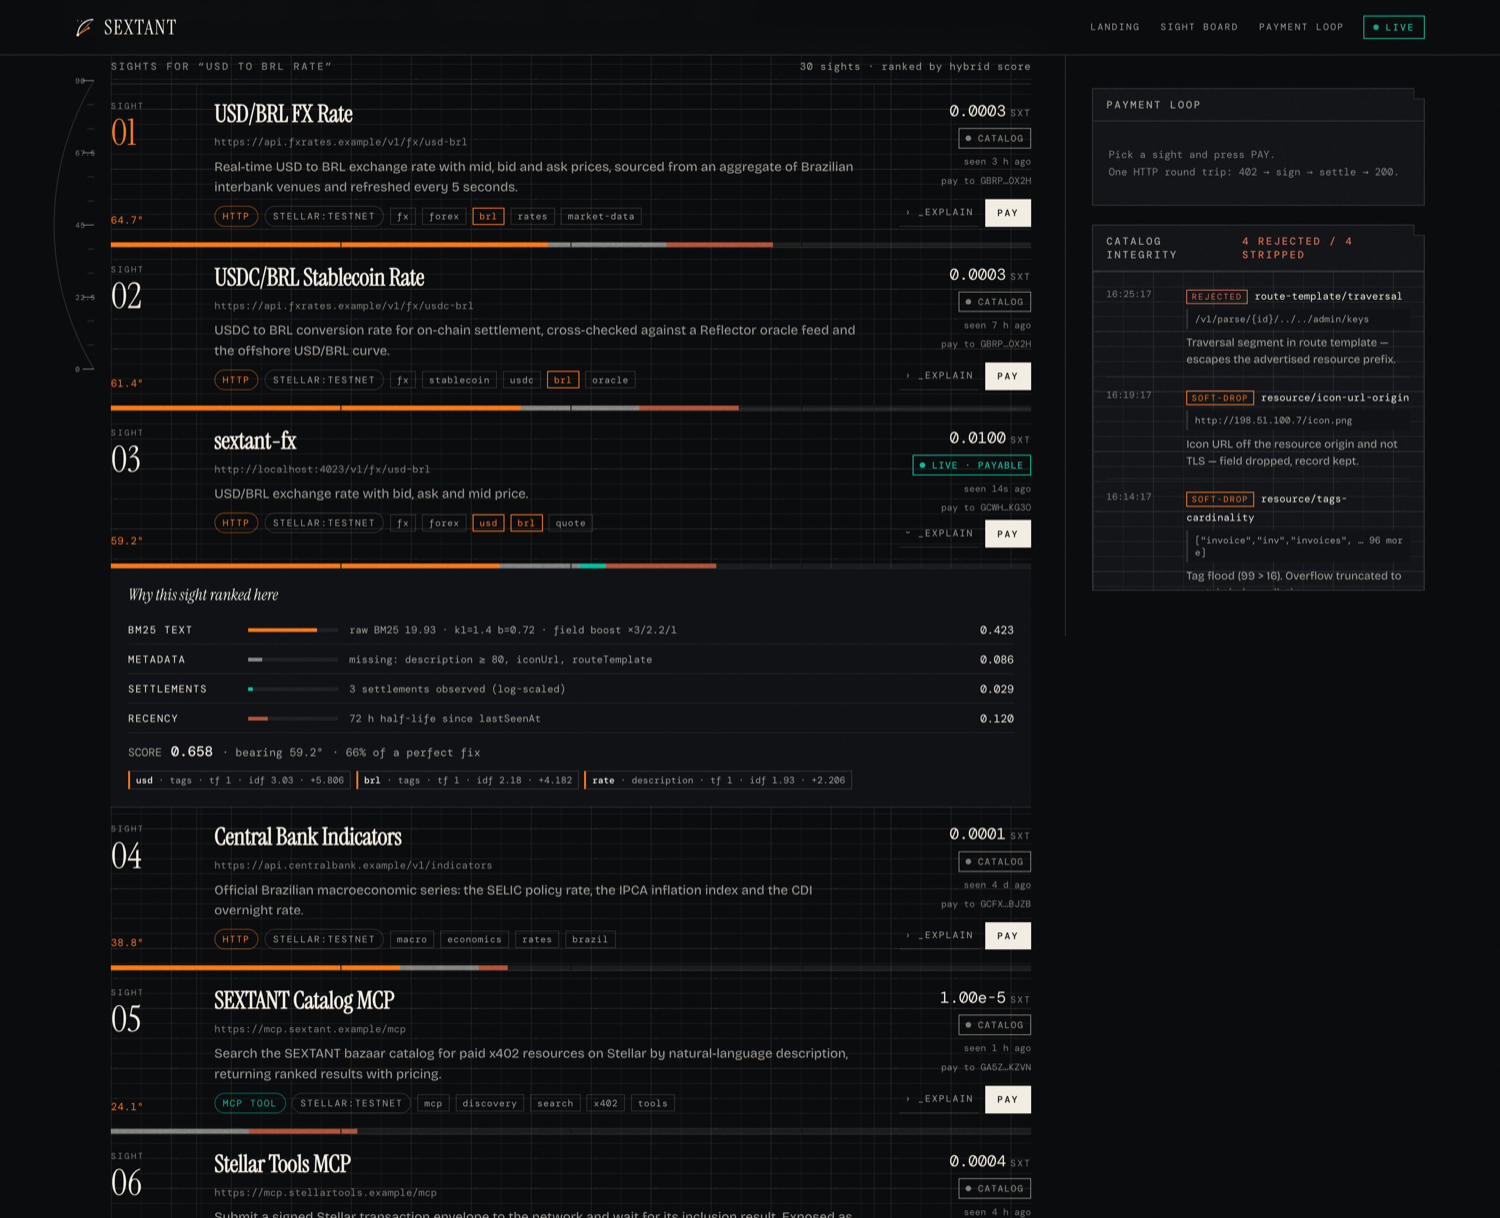
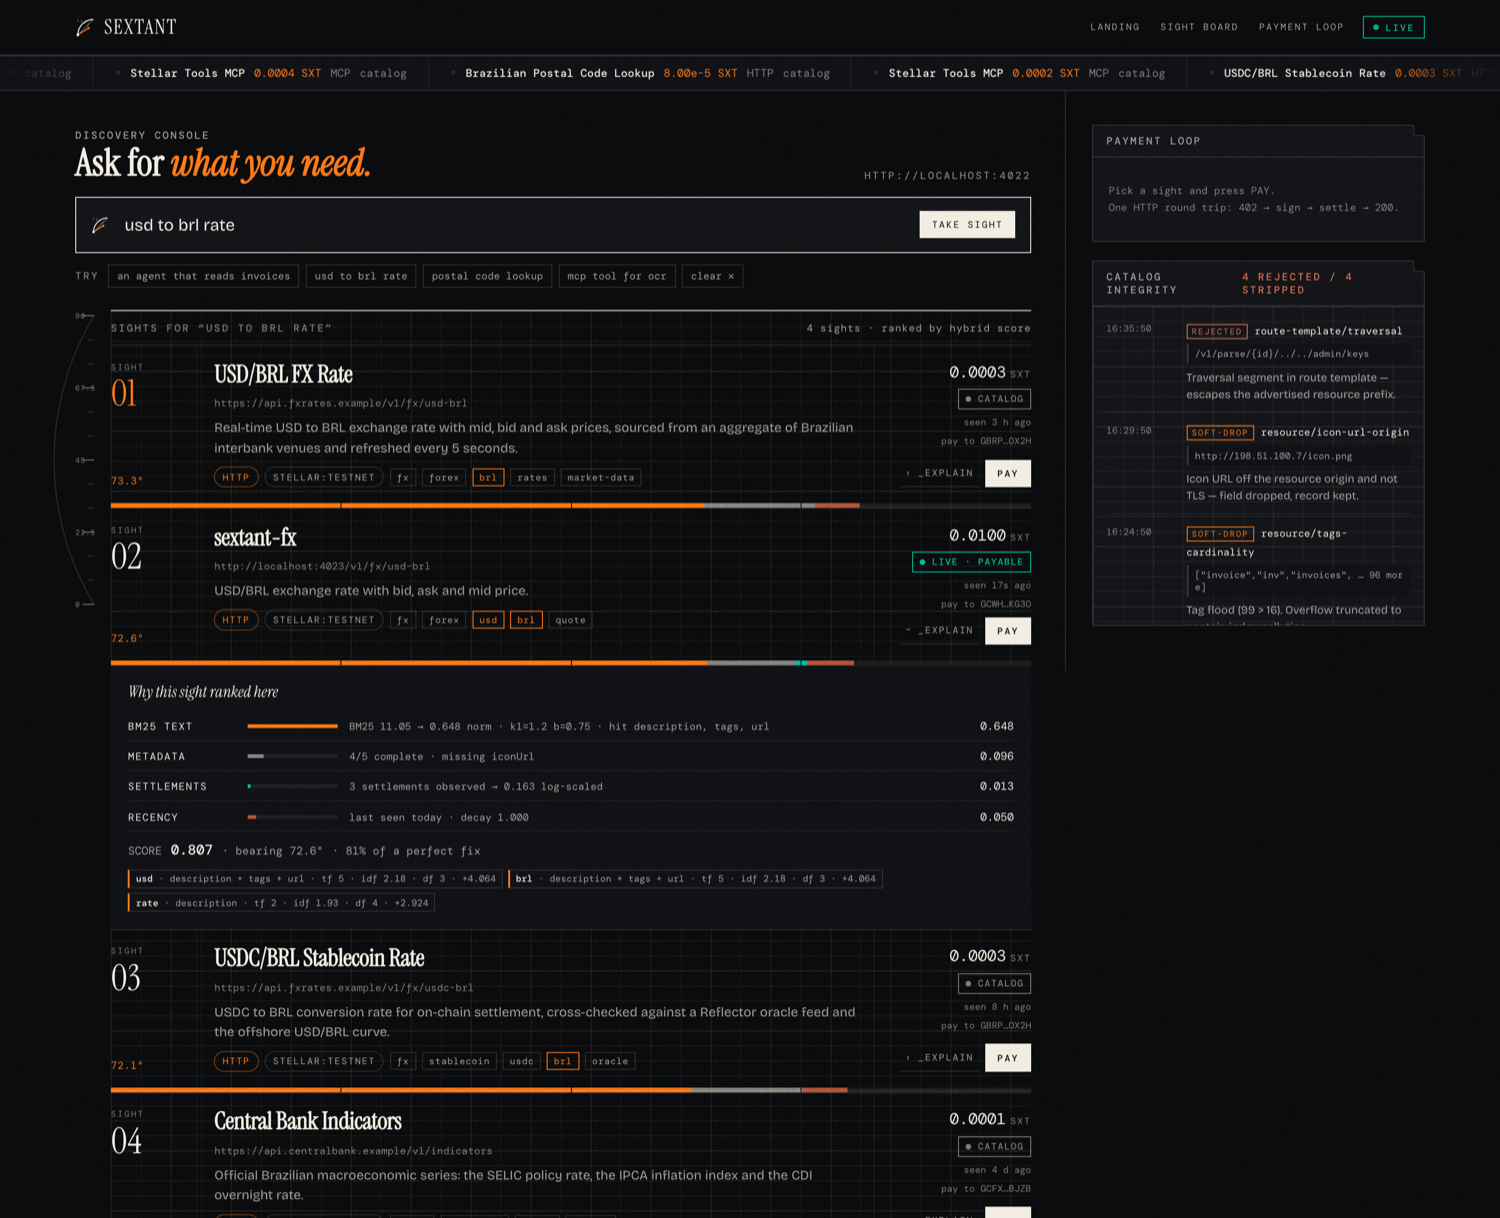
Demo video and explain screenshot

diff --git a/apps/web/src/lib/api.ts b/apps/web/src/lib/api.ts
@@ -2,7 +2,7 @@ import fixtureRaw from '../data/fixture.json'
 import txsRaw from '../data/testnet-txs.json'
 import integrityRaw from '../data/integrity.json'
 import { rank } from './rank'
-import type { Catalog, IntegrityEntry, SextantRecord, TxEntry } from './types'
+import type { Catalog, Explain, ExplainKey, IntegrityEntry, SextantRecord, TxEntry } from './types'
 
 export const INDEX_URL: string =
   (import.meta.env.VITE_INDEX_URL as string | undefined)?.replace(/\/$/, '') ??
@@ -48,10 +48,136 @@ function pickIntegrity(payload: unknown): IntegrityEntry[] {
   return []
 }
 
+/* ------------------------------------------------------------------ _explain */
+
+const num = (v: unknown, fallback = 0): number =>
+  typeof v === 'number' && Number.isFinite(v) ? v : fallback
+
+const round = (n: number, dp: number): number => {
+  const f = 10 ** dp
+  return Math.round(n * f) / f
+}
+
+const obj = (v: unknown): Record<string, unknown> =>
+  v && typeof v === 'object' && !Array.isArray(v) ? (v as Record<string, unknown>) : {}
+
+const PART_KEYS: ExplainKey[] = ['bm25', 'metadata', 'settlements', 'recency']
+
+/**
+ * The index speaks its own `_explain` dialect: `parts` is an *object*
+ * (`{relevance, completeness, popularity, recency}`), each term carries
+ * `contribution` plus a `fields` array, and there is no `total` at all. The
+ * board renders the local ranker's dialect: `parts` as an ordered array of
+ * `{key, value, detail}` and terms with a single `field`/`weight`.
+ *
+ * Translating here — at the edge — means nothing downstream has to know which
+ * ranker produced a row. The index knows strictly more than the local ranker
+ * (true corpus-wide `df`, every field a term hit, the exact k1/b in force), so
+ * the live path renders a richer panel than the fallback, not a poorer one.
+ */
+function normalizeTerms(raw: unknown): Explain['terms'] {
+  if (!Array.isArray(raw)) return []
+  return raw
+    .map((t) => {
+      const o = obj(t)
+      const fields = Array.isArray(o.fields) ? o.fields.map((f) => String(f)).filter(Boolean) : []
+      const field =
+        (typeof o.field === 'string' && o.field) || fields.join(' + ') || 'unscored field'
+      // the index calls it `contribution`; the local ranker calls it `weight`
+      const weight = num(o.weight, num(o.contribution))
+      const term: Explain['terms'][number] = {
+        term: String(o.term ?? ''),
+        field,
+        tf: round(num(o.tf), 2),
+        idf: round(num(o.idf), 2),
+        weight: round(weight, 3),
+      }
+      if (typeof o.df === 'number' && Number.isFinite(o.df)) term.df = o.df
+      return term
+    })
+    .filter((t) => t.term)
+    .sort((a, b) => b.weight - a.weight)
+    .slice(0, 6)
+}
+
+/**
+ * Returns `undefined` when there is nothing usable, so the caller can fall back
+ * to the local ranker. Every field is optional on the way in: a missing signal
+ * degrades to zero rather than throwing.
+ */
+function normalizeExplain(raw: unknown, score?: unknown): Explain | undefined {
+  if (!raw || typeof raw !== 'object') return undefined
+  const ex = raw as Record<string, unknown>
+
+  // Already the board's dialect (local ranker, or an index that adopted it).
+  if (Array.isArray(ex.parts)) {
+    const parts = ex.parts.map((p) => {
+      const o = obj(p)
+      return {
+        key: (PART_KEYS.includes(o.key as ExplainKey) ? o.key : String(o.key ?? '')) as ExplainKey,
+        value: num(o.value),
+        detail: String(o.detail ?? ''),
+      }
+    })
+    const summed = parts.reduce((a, p) => a + p.value, 0)
+    return {
+      total: num(ex.total, summed || num(score)),
+      parts,
+      terms: normalizeTerms(ex.terms),
+    }
+  }
+
+  const sParts = obj(ex.parts)
+  const quality = obj(ex.quality)
+  const weights = obj(ex.weights)
+  const detail = obj(quality.completenessDetail)
+  const matched = Array.isArray(ex.matchedFields)
+    ? ex.matchedFields.map((f) => String(f)).filter(Boolean)
+    : []
+
+  const bm25 = num(ex.bm25)
+  const bm25Norm = num(ex.bm25Norm)
+  const filled = Object.keys(detail).filter((k) => num(detail[k]) >= 1)
+  const missing = Object.keys(detail).filter((k) => num(detail[k]) < 1)
+  const settlements = num(quality.settlements)
+  const ageDays = num(quality.ageDays)
+
+  const parts: Explain['parts'] = [
+    {
+      key: 'bm25',
+      value: num(sParts.relevance),
+      detail: bm25
+        ? `BM25 ${bm25.toFixed(2)} → ${bm25Norm.toFixed(3)} norm · k1=${num(weights.k1, 1.2)} b=${num(weights.b, 0.75)}${matched.length ? ` · hit ${matched.join(', ')}` : ''}`
+        : 'no query terms matched — text contributes nothing',
+    },
+    {
+      key: 'metadata',
+      value: num(sParts.completeness),
+      detail: Object.keys(detail).length
+        ? `${filled.length}/${Object.keys(detail).length} complete${missing.length ? ` · missing ${missing.join(', ')}` : ' — advertisement complete'}`
+        : `completeness ${num(quality.completeness).toFixed(2)}`,
+    },
+    {
+      key: 'settlements',
+      value: num(sParts.popularity),
+      detail: `${settlements.toLocaleString('en-US')} settlements observed → ${num(quality.popularity).toFixed(3)} log-scaled`,
+    },
+    {
+      key: 'recency',
+      value: num(sParts.recency),
+      detail: `last seen ${ageDays < 0.05 ? 'today' : `${ageDays.toFixed(2)} d ago`} · decay ${num(quality.recency).toFixed(3)}`,
+    },
+  ]
+
+  const summed = parts.reduce((a, p) => a + p.value, 0)
+  return { total: round(summed || num(score), 4), parts, terms: normalizeTerms(ex.terms) }
+}
+
 /** Guard against a partly-filled record so one bad row can never blank the board. */
 function sane(r: SextantRecord): SextantRecord {
   const url = r?.resource?.url ?? r?.id ?? 'unknown://resource'
-  return {
+  const explain = normalizeExplain(r?._explain, (r as { _score?: unknown })?._score)
+  const out: SextantRecord = {
     ...r,
     id: r?.id ?? url,
     resource: {
@@ -71,6 +197,11 @@ function sane(r: SextantRecord): SextantRecord {
     lastSeenAt: Number(r?.lastSeenAt) || Date.now(),
     settlements: Number(r?.settlements) || 0,
   }
+  // `...r` carried the index's raw dialect through; replace it with the board's,
+  // or drop it entirely so the caller knows to rank locally instead.
+  if (explain) out._explain = explain
+  else delete out._explain
+  return out
 }
 
 /**
@@ -163,7 +294,11 @@ export async function search(
       const payload = await getJSON(`/discovery/search?query=${encodeURIComponent(query)}&limit=20`)
       const items = pickItems(payload).map(sane)
       if (items.length) {
-        const explained = items.map((r, i) => (r._explain ? r : { ...r, ...rank(query, [r])[0], _rank: i }))
+        // `sane` has already translated any index-supplied `_explain` into the
+        // board's dialect. Only rank locally for rows the index did not explain.
+        const explained = items.map((r, i) =>
+          r._explain?.parts?.length ? r : { ...r, ...rank(query, [r])[0], _rank: i },
+        )
         return {
           items: explained as SextantRecord[],
           source: 'live',

diff --git a/apps/web/src/components/SightBoard.tsx b/apps/web/src/components/SightBoard.tsx
@@ -19,40 +19,57 @@ const PART_COLOR: Record<ExplainKey, string> = {
 
 /* ------------------------------------------------------------------ explain */
 
+const num = (v: unknown): number => (typeof v === 'number' && Number.isFinite(v) ? v : 0)
+
+/**
+ * The index and the local ranker disagree about the shape of `_explain` — the
+ * index sends `parts` as an object. api.ts reconciles them, but this is the
+ * last line of defence before render, so assume nothing.
+ */
+const explainParts = (ex: Explain | undefined): Explain['parts'] =>
+  Array.isArray(ex?.parts) ? ex.parts : []
+
 function ExplainPanel({ ex, id }: { ex: Explain; id: string }) {
+  // Belt and braces: api.ts normalizes every dialect into arrays, but a crash
+  // here is unrecoverable in front of an audience — never trust the shape.
+  const parts = explainParts(ex)
+  const terms = Array.isArray(ex.terms) ? ex.terms : []
+  const total = Number.isFinite(ex.total) ? ex.total : parts.reduce((a, p) => a + num(p.value), 0)
+
   return (
     <div className="explain" id={id}>
       <p className="explain__lead">Why this sight ranked here</p>
       <div className="explain__rows">
-        {ex.parts.map((p) => (
+        {parts.map((p) => (
           <div className="explain__row" key={p.key}>
-            <span className="explain__key">{PART_LABEL[p.key]}</span>
+            <span className="explain__key">{PART_LABEL[p.key] ?? p.key}</span>
             <span className="explain__meter">
               <i
                 style={{
-                  width: `${Math.min(100, (p.value / 0.55) * 100)}%`,
-                  background: PART_COLOR[p.key],
+                  width: `${Math.min(100, (num(p.value) / 0.55) * 100)}%`,
+                  background: PART_COLOR[p.key] ?? 'var(--fg-3)',
                 }}
               />
             </span>
             <span className="explain__detail" title={p.detail}>
               {p.detail}
             </span>
-            <span className="explain__val">{p.value.toFixed(3)}</span>
+            <span className="explain__val">{num(p.value).toFixed(3)}</span>
           </div>
         ))}
       </div>
       <div className="explain__total">
         <span>SCORE</span>
-        <b>{ex.total.toFixed(3)}</b>
-        <span>· bearing {bearing(ex.total)}</span>
-        <span>· {pct(ex.total)} of a perfect fix</span>
+        <b>{total.toFixed(3)}</b>
+        <span>· bearing {bearing(total)}</span>
+        <span>· {pct(total)} of a perfect fix</span>
       </div>
-      {ex.terms.length > 0 ? (
+      {terms.length > 0 ? (
         <div className="explain__terms">
-          {ex.terms.map((t) => (
+          {terms.map((t) => (
             <span className="term" key={`${t.term}-${t.field}`}>
-              <b>{t.term}</b> · {t.field} · tf {t.tf} · idf {t.idf} · +{t.weight}
+              <b>{t.term}</b> · {t.field} · tf {t.tf} · idf {t.idf}
+              {t.df === undefined ? '' : ` · df ${t.df}`} · +{t.weight}
             </span>
           ))}
         </div>
@@ -81,7 +98,7 @@ function Sight({
   const [open, setOpen] = useState(false)
   const ex = rec._explain
   const panelId = `explain-${index}`
-  const total = ex?.total ?? 0
+  const total = num(ex?.total)
 
   return (
     <article className={`sight${index === 0 ? ' sight--top' : ''}`}>
@@ -146,11 +163,11 @@ function Sight({
 
       {ex && (
         <div className="scorebar" title={`score ${total.toFixed(3)}`}>
-          {ex.parts.map((p) => (
+          {explainParts(ex).map((p) => (
             <span
               key={p.key}
               className={`scorebar__seg seg--${p.key}`}
-              style={{ width: `${p.value * 100}%` }}
+              style={{ width: `${num(p.value) * 100}%` }}
             />
           ))}
           <span className="scorebar__ticks">

diff --git a/apps/web/src/lib/types.ts b/apps/web/src/lib/types.ts
@@ -36,7 +36,19 @@ export type SextantRecord = {
 export type Explain = {
   total: number
   parts: { key: ExplainKey; value: number; detail: string }[]
-  terms: { term: string; field: string; tf: number; idf: number; weight: number }[]
+  terms: {
+    term: string
+    /** the field(s) the term hit — joined when the index reports several */
+    field: string
+    tf: number
+    idf: number
+    weight: number
+    /**
+     * Corpus-wide document frequency. Only the index knows this; the local
+     * ranker sees one document at a time, so it is absent on the fallback path.
+     */
+    df?: number
+  }[]
 }
 
 export type ExplainKey = 'bm25' | 'metadata' | 'settlements' | 'recency'
